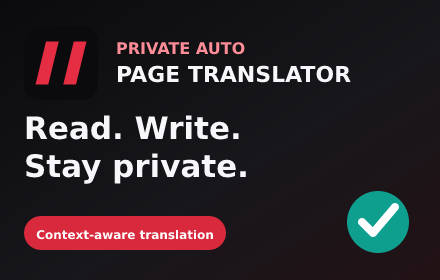
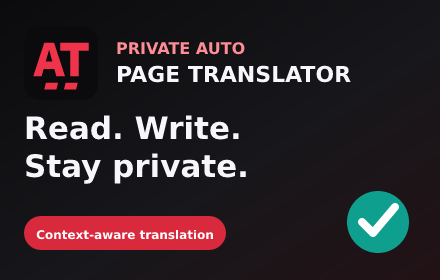
Brand Auto Translator with red AT monogram for v1.3.1 (#30)

Changed region(s): [[0.0591, 0.1429, 0.2068, 0.3429]]

diff --git a/STORE_LISTING.md b/STORE_LISTING.md
@@ -11,7 +11,7 @@ Private Auto Page Translator
 - **Extension ID:** `pilpighhgdglgngmakjepoadacbhpoeo`
 - **Source and development:** [GitHub](https://github.com/Conroy1988/Brave-Auto-Page-Translator)
 
-The Chrome Web Store is the official distribution and automatic-update channel. This repository is the source and development home; the sections below are the canonical listing copy for the v1.2.1 update.
+The Chrome Web Store is the official distribution and automatic-update channel. This repository is the source and development home; the sections below are the canonical listing copy for the v1.3.1 update.
 
 ## Summary
 
@@ -31,6 +31,8 @@ Write across languages with Smart Compose. Preview a translation in a supported 
 
 Key features:
 
+- A readable black-and-red interface with a distinctive AT icon and two-bar signature
+- Favourite languages and an easy-to-edit terminology glossary
 - Context-aware in-page translation for more coherent sentences
 - Translated, bilingual and original-on-hover reading modes
 - Viewport-first processing for long pages
@@ -88,6 +90,6 @@ https://github.com/Conroy1988/Brave-Auto-Page-Translator
 https://github.com/Conroy1988/Brave-Auto-Page-Translator/blob/main/PRIVACY.md
 
 
-## v1.3.0 update notes
+## v1.3.1 update notes
 
-A clearer red-and-black interface with a new two-bar icon, readable controls, favourite languages and easier glossary editing. The translation workspace follows your active tab and recovers from errors. Existing preferences and provider approvals are retained. No new permissions.
+A clearer red-and-black interface with a new red AT monogram and two-bar signature, readable controls, favourite languages and easier glossary editing. All websites is selected for new setup, with your consent and website-access permission still required. The translation workspace follows your active tab and recovers from errors. Existing preferences and provider approvals are retained. No new permissions.

diff --git a/CHANGELOG.md b/CHANGELOG.md
@@ -1,5 +1,11 @@
 # Changelog
 
+## 1.3.1 — AT identity
+
+- Red AT monogram on a black background, retaining the two equal red bars as a signature.
+- The extension toolbar, interface icons and store promotional artwork share one SVG source.
+- Includes the v1.3.0 interface improvements and All websites default; translation behaviour and permissions are unchanged from v1.3.0.
+
 ## 1.3.0 — Red and black interface and workspace reliability
 
 - All websites is the default for new setup, with explicit permission and consent; existing saved modes are retained and declined all-site access falls back to Manual.
